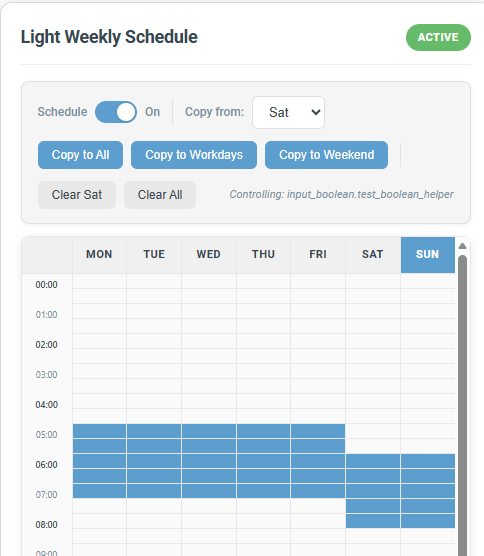
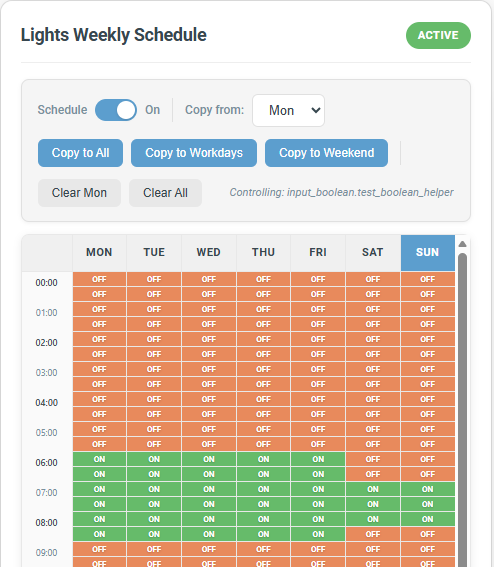
Update screenshots and bump version to 0.4.0
- Updated screenshots with latest UI
- Version bump to 0.4.0

diff --git a/weekly-scheduler-card.js b/weekly-scheduler-card.js
@@ -1,4 +1,4 @@
-/*! weekly-scheduler-card v0.3.5 */
+/*! weekly-scheduler-card v0.4.0 */
 !function(e){"use strict";function t(e,t,s,i){var n,o=arguments.length,r=o<3?t:null===i?i=Object.getOwnPropertyDescriptor(t,s):i;if("object"==typeof Reflect&&"function"==typeof Reflect.decorate)r=Reflect.decorate(e,t,s,i);else for(var a=e.length-1;a>=0;a--)(n=e[a])&&(r=(o<3?n(r):o>3?n(t,s,r):n(t,s))||r);return o>3&&r&&Object.defineProperty(t,s,r),r}"function"==typeof SuppressedError&&SuppressedError;const s=globalThis,i=s.ShadowRoot&&(void 0===s.ShadyCSS||s.ShadyCSS.nativeShadow)&&"adoptedStyleSheets"in Document.prototype&&"replace"in CSSStyleSheet.prototype,n=Symbol(),o=new WeakMap;let r=class{constructor(e,t,s){if(this._$cssResult$=!0,s!==n)throw Error("CSSResult is not constructable. Use `unsafeCSS` or `css` instead.");this.cssText=e,this.t=t}get styleSheet(){let e=this.o;const t=this.t;if(i&&void 0===e){const s=void 0!==t&&1===t.length;s&&(e=o.get(t)),void 0===e&&((this.o=e=new CSSStyleSheet).replaceSync(this.cssText),s&&o.set(t,e))}return e}toString(){return this.cssText}};const a=(e,...t)=>{const s=1===e.length?e[0]:t.reduce((t,s,i)=>t+(e=>{if(!0===e._$cssResult$)return e.cssText;if("number"==typeof e)return e;throw Error("Value passed to 'css' function must be a 'css' function result: "+e+". Use 'unsafeCSS' to pass non-literal values, but take care to ensure page security.")})(s)+e[i+1],e[0]);return new r(s,e,n)},l=i?e=>e:e=>e instanceof CSSStyleSheet?(e=>{let t="";for(const s of e.cssRules)t+=s.cssText;return(e=>new r("string"==typeof e?e:e+"",void 0,n))(t)})(e):e,{is:d,defineProperty:c,getOwnPropertyDescriptor:h,getOwnPropertyNames:u,getOwnPropertySymbols:p,getPrototypeOf:y}=Object,g=globalThis,f=g.trustedTypes,_=f?f.emptyScript:"",b=g.reactiveElementPolyfillSupport,v=(e,t)=>e,m={toAttribute(e,t){switch(t){case Boolean:e=e?_:null;break;case Object:case Array:e=null==e?e:JSON.stringify(e)}return e},fromAttribute(e,t){let s=e;switch(t){case Boolean:s=null!==e;break;case Number:s=null===e?null:Number(e);break;case Object:case Array:try{s=JSON.parse(e)}catch(e){s=null}}return s}},$=(e,t)=>!d(e,t),x={attribute:!0,type:String,converter:m,reflect:!1,useDefault:!1,hasChanged:$};Symbol.metadata??=Symbol("metadata"),g.litPropertyMetadata??=new WeakMap;let w=class extends HTMLElement{static addInitializer(e){this._$Ei(),(this.l??=[]).push(e)}static get observedAttributes(){return this.finalize(),this._$Eh&&[...this._$Eh.keys()]}static createProperty(e,t=x){if(t.state&&(t.attribute=!1),this._$Ei(),this.prototype.hasOwnProperty(e)&&((t=Object.create(t)).wrapped=!0),this.elementProperties.set(e,t),!t.noAccessor){const s=Symbol(),i=this.getPropertyDescriptor(e,s,t);void 0!==i&&c(this.prototype,e,i)}}static getPropertyDescriptor(e,t,s){const{get:i,set:n}=h(this.prototype,e)??{get(){return this[t]},set(e){this[t]=e}};return{get:i,set(t){const o=i?.call(this);n?.call(this,t),this.requestUpdate(e,o,s)},configurable:!0,enumerable:!0}}static getPropertyOptions(e){return this.elementProperties.get(e)??x}static _$Ei(){if(this.hasOwnProperty(v("elementProperties")))return;const e=y(this);e.finalize(),void 0!==e.l&&(this.l=[...e.l]),this.elementProperties=new Map(e.elementProperties)}static finalize(){if(this.hasOwnProperty(v("finalized")))return;if(this.finalized=!0,this._$Ei(),this.hasOwnProperty(v("properties"))){const e=this.properties,t=[...u(e),...p(e)];for(const s of t)this.createProperty(s,e[s])}const e=this[Symbol.metadata];if(null!==e){const t=litPropertyMetadata.get(e);if(void 0!==t)for(const[e,s]of t)this.elementProperties.set(e,s)}this._$Eh=new Map;for(const[e,t]of this.elementProperties){const s=this._$Eu(e,t);void 0!==s&&this._$Eh.set(s,e)}this.elementStyles=this.finalizeStyles(this.styles)}static finalizeStyles(e){const t=[];if(Array.isArray(e)){const s=new Set(e.flat(1/0).reverse());for(const e of s)t.unshift(l(e))}else void 0!==e&&t.push(l(e));return t}static _$Eu(e,t){const s=t.attribute;return!1===s?void 0:"string"==typeof s?s:"string"==typeof e?e.toLowerCase():void 0}constructor(){super(),this._$Ep=void 0,this.isUpdatePending=!1,this.hasUpdated=!1,this._$Em=null,this._$Ev()}_$Ev(){this._$ES=new Promise(e=>this.enableUpdating=e),this._$AL=new Map,this._$E_(),this.requestUpdate(),this.constructor.l?.forEach(e=>e(this))}addController(e){(this._$EO??=new Set).add(e),void 0!==this.renderRoot&&this.isConnected&&e.hostConnected?.()}removeController(e){this._$EO?.delete(e)}_$E_(){const e=new Map,t=this.constructor.elementProperties;for(const s of t.keys())this.hasOwnProperty(s)&&(e.set(s,this[s]),delete this[s]);e.size>0&&(this._$Ep=e)}createRenderRoot(){const e=this.shadowRoot??this.attachShadow(this.constructor.shadowRootOptions);return((e,t)=>{if(i)e.adoptedStyleSheets=t.map(e=>e instanceof CSSStyleSheet?e:e.styleSheet);else for(const i of t){const t=document.createElement("style"),n=s.litNonce;void 0!==n&&t.setAttribute("nonce",n),t.textContent=i.cssText,e.appendChild(t)}})(e,this.constructor.elementStyles),e}connectedCallback(){this.renderRoot??=this.createRenderRoot(),this.enableUpdating(!0),this._$EO?.forEach(e=>e.hostConnected?.())}enableUpdating(e){}disconnectedCallback(){this._$EO?.forEach(e=>e.hostDisconnected?.())}attributeChangedCallback(e,t,s){this._$AK(e,s)}_$ET(e,t){const s=this.constructor.elementProperties.get(e),i=this.constructor._$Eu(e,s);if(void 0!==i&&!0===s.reflect){const n=(void 0!==s.converter?.toAttribute?s.converter:m).toAttribute(t,s.type);this._$Em=e,null==n?this.removeAttribute(i):this.setAttribute(i,n),this._$Em=null}}_$AK(e,t){const s=this.constructor,i=s._$Eh.get(e);if(void 0!==i&&this._$Em!==i){const e=s.getPropertyOptions(i),n="function"==typeof e.converter?{fromAttribute:e.converter}:void 0!==e.converter?.fromAttribute?e.converter:m;this._$Em=i;const o=n.fromAttribute(t,e.type);this[i]=o??this._$Ej?.get(i)??o,this._$Em=null}}requestUpdate(e,t,s,i=!1,n){if(void 0!==e){const o=this.constructor;if(!1===i&&(n=this[e]),s??=o.getPropertyOptions(e),!((s.hasChanged??$)(n,t)||s.useDefault&&s.reflect&&n===this._$Ej?.get(e)&&!this.hasAttribute(o._$Eu(e,s))))return;this.C(e,t,s)}!1===this.isUpdatePending&&(this._$ES=this._$EP())}C(e,t,{useDefault:s,reflect:i,wrapped:n},o){s&&!(this._$Ej??=new Map).has(e)&&(this._$Ej.set(e,o??t??this[e]),!0!==n||void 0!==o)||(this._$AL.has(e)||(this.hasUpdated||s||(t=void 0),this._$AL.set(e,t)),!0===i&&this._$Em!==e&&(this._$Eq??=new Set).add(e))}async _$EP(){this.isUpdatePending=!0;try{await this._$ES}catch(e){Promise.reject(e)}const e=this.scheduleUpdate();return null!=e&&await e,!this.isUpdatePending}scheduleUpdate(){return this.performUpdate()}performUpdate(){if(!this.isUpdatePending)return;if(!this.hasUpdated){if(this.renderRoot??=this.createRenderRoot(),this._$Ep){for(const[e,t]of this._$Ep)this[e]=t;this._$Ep=void 0}const e=this.constructor.elementProperties;if(e.size>0)for(const[t,s]of e){const{wrapped:e}=s,i=this[t];!0!==e||this._$AL.has(t)||void 0===i||this.C(t,void 0,s,i)}}let e=!1;const t=this._$AL;try{e=this.shouldUpdate(t),e?(this.willUpdate(t),this._$EO?.forEach(e=>e.hostUpdate?.()),this.update(t)):this._$EM()}catch(t){throw e=!1,this._$EM(),t}e&&this._$AE(t)}willUpdate(e){}_$AE(e){this._$EO?.forEach(e=>e.hostUpdated?.()),this.hasUpdated||(this.hasUpdated=!0,this.firstUpdated(e)),this.updated(e)}_$EM(){this._$AL=new Map,this.isUpdatePending=!1}get updateComplete(){return this.getUpdateComplete()}getUpdateComplete(){return this._$ES}shouldUpdate(e){return!0}update(e){this._$Eq&&=this._$Eq.forEach(e=>this._$ET(e,this[e])),this._$EM()}updated(e){}firstUpdated(e){}};w.elementStyles=[],w.shadowRootOptions={mode:"open"},w[v("elementProperties")]=new Map,w[v("finalized")]=new Map,b?.({ReactiveElement:w}),(g.reactiveElementVersions??=[]).push("2.1.2");const S=globalThis,E=e=>e,C=S.trustedTypes,A=C?C.createPolicy("lit-html",{createHTML:e=>e}):void 0,k="$lit$",T=`lit$${Math.random().toFixed(9).slice(2)}$`,D="?"+T,M=`<${D}>`,O=document,P=()=>O.createComment(""),U=e=>null===e||"object"!=typeof e&&"function"!=typeof e,H=Array.isArray,R="[ \t\n\f\r]",z=/<(?:(!--|\/[^a-zA-Z])|(\/?[a-zA-Z][^>\s]*)|(\/?$))/g,V=/-->/g,N=/>/g,W=RegExp(`>|${R}(?:([^\\s"'>=/]+)(${R}*=${R}*(?:[^ \t\n\f\r"'\`<>=]|("|')|))|$)`,"g"),j=/'/g,I=/"/g,L=/^(?:script|style|textarea|title)$/i,B=(e=>(t,...s)=>({_$litType$:e,strings:t,values:s}))(1),q=Symbol.for("lit-noChange"),F=Symbol.for("lit-nothing"),J=new WeakMap,K=O.createTreeWalker(O,129);function Y(e,t){if(!H(e)||!e.hasOwnProperty("raw"))throw Error("invalid template strings array");return void 0!==A?A.createHTML(t):t}const X=(e,t)=>{const s=e.length-1,i=[];let n,o=2===t?"<svg>":3===t?"<math>":"",r=z;for(let t=0;t<s;t++){const s=e[t];let a,l,d=-1,c=0;for(;c<s.length&&(r.lastIndex=c,l=r.exec(s),null!==l);)c=r.lastIndex,r===z?"!--"===l[1]?r=V:void 0!==l[1]?r=N:void 0!==l[2]?(L.test(l[2])&&(n=RegExp("</"+l[2],"g")),r=W):void 0!==l[3]&&(r=W):r===W?">"===l[0]?(r=n??z,d=-1):void 0===l[1]?d=-2:(d=r.lastIndex-l[2].length,a=l[1],r=void 0===l[3]?W:'"'===l[3]?I:j):r===I||r===j?r=W:r===V||r===N?r=z:(r=W,n=void 0);const h=r===W&&e[t+1].startsWith("/>")?" ":"";o+=r===z?s+M:d>=0?(i.push(a),s.slice(0,d)+k+s.slice(d)+T+h):s+T+(-2===d?t:h)}return[Y(e,o+(e[s]||"<?>")+(2===t?"</svg>":3===t?"</math>":"")),i]};class Z{constructor({strings:e,_$litType$:t},s){let i;this.parts=[];let n=0,o=0;const r=e.length-1,a=this.parts,[l,d]=X(e,t);if(this.el=Z.createElement(l,s),K.currentNode=this.el.content,2===t||3===t){const e=this.el.content.firstChild;e.replaceWith(...e.childNodes)}for(;null!==(i=K.nextNode())&&a.length<r;){if(1===i.nodeType){if(i.hasAttributes())for(const e of i.getAttributeNames())if(e.endsWith(k)){const t=d[o++],s=i.getAttribute(e).split(T),r=/([.?@])?(.*)/.exec(t);a.push({type:1,index:n,name:r[2],strings:s,ctor:"."===r[1]?se:"?"===r[1]?ie:"@"===r[1]?ne:te}),i.removeAttribute(e)}else e.startsWith(T)&&(a.push({type:6,index:n}),i.removeAttribute(e));if(L.test(i.tagName)){const e=i.textContent.split(T),t=e.length-1;if(t>0){i.textContent=C?C.emptyScript:"";for(let s=0;s<t;s++)i.append(e[s],P()),K.nextNode(),a.push({type:2,index:++n});i.append(e[t],P())}}}else if(8===i.nodeType)if(i.data===D)a.push({type:2,index:n});else{let e=-1;for(;-1!==(e=i.data.indexOf(T,e+1));)a.push({type:7,index:n}),e+=T.length-1}n++}}static createElement(e,t){const s=O.createElement("template");return s.innerHTML=e,s}}function G(e,t,s=e,i){if(t===q)return t;let n=void 0!==i?s._$Co?.[i]:s._$Cl;const o=U(t)?void 0:t._$litDirective$;return n?.constructor!==o&&(n?._$AO?.(!1),void 0===o?n=void 0:(n=new o(e),n._$AT(e,s,i)),void 0!==i?(s._$Co??=[])[i]=n:s._$Cl=n),void 0!==n&&(t=G(e,n._$AS(e,t.values),n,i)),t}class Q{constructor(e,t){this._$AV=[],this._$AN=void 0,this._$AD=e,this._$AM=t}get parentNode(){return this._$AM.parentNode}get _$AU(){return this._$AM._$AU}u(e){const{el:{content:t},parts:s}=this._$AD,i=(e?.creationScope??O).importNode(t,!0);K.currentNode=i;let n=K.nextNode(),o=0,r=0,a=s[0];for(;void 0!==a;){if(o===a.index){let t;2===a.type?t=new ee(n,n.nextSibling,this,e):1===a.type?t=new a.ctor(n,a.name,a.strings,this,e):6===a.type&&(t=new oe(n,this,e)),this._$AV.push(t),a=s[++r]}o!==a?.index&&(n=K.nextNode(),o++)}return K.currentNode=O,i}p(e){let t=0;for(const s of this._$AV)void 0!==s&&(void 0!==s.strings?(s._$AI(e,s,t),t+=s.strings.length-2):s._$AI(e[t])),t++}}class ee{get _$AU(){return this._$AM?._$AU??this._$Cv}constructor(e,t,s,i){this.type=2,this._$AH=F,this._$AN=void 0,this._$AA=e,this._$AB=t,this._$AM=s,this.options=i,this._$Cv=i?.isConnected??!0}get parentNode(){let e=this._$AA.parentNode;const t=this._$AM;return void 0!==t&&11===e?.nodeType&&(e=t.parentNode),e}get startNode(){return this._$AA}get endNode(){return this._$AB}_$AI(e,t=this){e=G(this,e,t),U(e)?e===F||null==e||""===e?(this._$AH!==F&&this._$AR(),this._$AH=F):e!==this._$AH&&e!==q&&this._(e):void 0!==e._$litType$?this.$(e):void 0!==e.nodeType?this.T(e):(e=>H(e)||"function"==typeof e?.[Symbol.iterator])(e)?this.k(e):this._(e)}O(e){return this._$AA.parentNode.insertBefore(e,this._$AB)}T(e){this._$AH!==e&&(this._$AR(),this._$AH=this.O(e))}_(e){this._$AH!==F&&U(this._$AH)?this._$AA.nextSibling.data=e:this.T(O.createTextNode(e)),this._$AH=e}$(e){const{values:t,_$litType$:s}=e,i="number"==typeof s?this._$AC(e):(void 0===s.el&&(s.el=Z.createElement(Y(s.h,s.h[0]),this.options)),s);if(this._$AH?._$AD===i)this._$AH.p(t);else{const e=new Q(i,this),s=e.u(this.options);e.p(t),this.T(s),this._$AH=e}}_$AC(e){let t=J.get(e.strings);return void 0===t&&J.set(e.strings,t=new Z(e)),t}k(e){H(this._$AH)||(this._$AH=[],this._$AR());const t=this._$AH;let s,i=0;for(const n of e)i===t.length?t.push(s=new ee(this.O(P()),this.O(P()),this,this.options)):s=t[i],s._$AI(n),i++;i<t.length&&(this._$AR(s&&s._$AB.nextSibling,i),t.length=i)}_$AR(e=this._$AA.nextSibling,t){for(this._$AP?.(!1,!0,t);e!==this._$AB;){const t=E(e).nextSibling;E(e).remove(),e=t}}setConnected(e){void 0===this._$AM&&(this._$Cv=e,this._$AP?.(e))}}class te{get tagName(){return this.element.tagName}get _$AU(){return this._$AM._$AU}constructor(e,t,s,i,n){this.type=1,this._$AH=F,this._$AN=void 0,this.element=e,this.name=t,this._$AM=i,this.options=n,s.length>2||""!==s[0]||""!==s[1]?(this._$AH=Array(s.length-1).fill(new String),this.strings=s):this._$AH=F}_$AI(e,t=this,s,i){const n=this.strings;let o=!1;if(void 0===n)e=G(this,e,t,0),o=!U(e)||e!==this._$AH&&e!==q,o&&(this._$AH=e);else{const i=e;let r,a;for(e=n[0],r=0;r<n.length-1;r++)a=G(this,i[s+r],t,r),a===q&&(a=this._$AH[r]),o||=!U(a)||a!==this._$AH[r],a===F?e=F:e!==F&&(e+=(a??"")+n[r+1]),this._$AH[r]=a}o&&!i&&this.j(e)}j(e){e===F?this.element.removeAttribute(this.name):this.element.setAttribute(this.name,e??"")}}class se extends te{constructor(){super(...arguments),this.type=3}j(e){this.element[this.name]=e===F?void 0:e}}class ie extends te{constructor(){super(...arguments),this.type=4}j(e){this.element.toggleAttribute(this.name,!!e&&e!==F)}}class ne extends te{constructor(e,t,s,i,n){super(e,t,s,i,n),this.type=5}_$AI(e,t=this){if((e=G(this,e,t,0)??F)===q)return;const s=this._$AH,i=e===F&&s!==F||e.capture!==s.capture||e.once!==s.once||e.passive!==s.passive,n=e!==F&&(s===F||i);i&&this.element.removeEventListener(this.name,this,s),n&&this.element.addEventListener(this.name,this,e),this._$AH=e}handleEvent(e){"function"==typeof this._$AH?this._$AH.call(this.options?.host??this.element,e):this._$AH.handleEvent(e)}}class oe{constructor(e,t,s){this.element=e,this.type=6,this._$AN=void 0,this._$AM=t,this.options=s}get _$AU(){return this._$AM._$AU}_$AI(e){G(this,e)}}const re=S.litHtmlPolyfillSupport;re?.(Z,ee),(S.litHtmlVersions??=[]).push("3.3.2");const ae=globalThis;class le extends w{constructor(){super(...arguments),this.renderOptions={host:this},this._$Do=void 0}createRenderRoot(){const e=super.createRenderRoot();return this.renderOptions.renderBefore??=e.firstChild,e}update(e){const t=this.render();this.hasUpdated||(this.renderOptions.isConnected=this.isConnected),super.update(e),this._$Do=((e,t,s)=>{const i=s?.renderBefore??t;let n=i._$litPart$;if(void 0===n){const e=s?.renderBefore??null;i._$litPart$=n=new ee(t.insertBefore(P(),e),e,void 0,s??{})}return n._$AI(e),n})(t,this.renderRoot,this.renderOptions)}connectedCallback(){super.connectedCallback(),this._$Do?.setConnected(!0)}disconnectedCallback(){super.disconnectedCallback(),this._$Do?.setConnected(!1)}render(){return q}}le._$litElement$=!0,le.finalized=!0,ae.litElementHydrateSupport?.({LitElement:le});const de=ae.litElementPolyfillSupport;de?.({LitElement:le}),(ae.litElementVersions??=[]).push("4.2.2");const ce={attribute:!0,type:String,converter:m,reflect:!1,hasChanged:$},he=(e=ce,t,s)=>{const{kind:i,metadata:n}=s;let o=globalThis.litPropertyMetadata.get(n);if(void 0===o&&globalThis.litPropertyMetadata.set(n,o=new Map),"setter"===i&&((e=Object.create(e)).wrapped=!0),o.set(s.name,e),"accessor"===i){const{name:i}=s;return{set(s){const n=t.get.call(this);t.set.call(this,s),this.requestUpdate(i,n,e,!0,s)},init(t){return void 0!==t&&this.C(i,void 0,e,t),t}}}if("setter"===i){const{name:i}=s;return function(s){const n=this[i];t.call(this,s),this.requestUpdate(i,n,e,!0,s)}}throw Error("Unsupported decorator location: "+i)};function ue(e){return(t,s)=>"object"==typeof s?he(e,t,s):((e,t,s)=>{const i=t.hasOwnProperty(s);return t.constructor.createProperty(s,e),i?Object.getOwnPropertyDescriptor(t,s):void 0})(e,t,s)}function pe(e){return ue({...e,state:!0,attribute:!1})}const ye=["monday","tuesday","wednesday","thursday","friday","saturday","sunday"],ge={monday:"Mon",tuesday:"Tue",wednesday:"Wed",thursday:"Thu",friday:"Fri",saturday:"Sat",sunday:"Sun"};function fe(e){const t=e%2*30;return`${Math.floor(e/2).toString().padStart(2,"0")}:${t.toString().padStart(2,"0")}`}function _e(e){const[t,s]=e.split(":").map(Number);return 2*t+Math.floor(s/30)}function be(){const e=(new Date).getDay();return ye[0===e?6:e-1]}function ve(){const e=new Date;return 2*e.getHours()+Math.floor(e.getMinutes()/30)}function me(e){const t={monday:[],tuesday:[],wednesday:[],thursday:[],friday:[],saturday:[],sunday:[]};for(const s of ye)t[s]=e[s].map(e=>({...e}));return t}function $e(e,t,s,i,n){const o=me(e),r=fe(s),a=i>=48?"00:00":fe(i);o[t]=o[t].filter(e=>{const t=_e(e.start);return("00:00"===e.end?48:_e(e.end))<=s||t>=i});const l=[];for(const n of e[t]){const e=_e(n.start),t="00:00"===n.end?48:_e(n.end);e<s&&t>s&&l.push({start:n.start,end:fe(s),value:n.value}),e<i&&t>i&&l.push({start:fe(i),end:n.end,value:n.value})}return o[t].push({start:r,end:a,value:n}),o[t].push(...l),o[t]=function(e){if(0===e.length)return[];const t=[{...e[0]}];for(let s=1;s<e.length;s++){const i=t[t.length-1],n=e[s];("00:00"===i.end?48:_e(i.end))===_e(n.start)&&i.value===n.value?t[t.length-1]={start:i.start,end:n.end,value:i.value}:t.push({...n})}return t}(o[t].sort((e,t)=>_e(e.start)-_e(t.start))),o}function xe(e,t,s,i){const n=me(e),o=[];for(const e of n[t]){const t=_e(e.start),n="00:00"===e.end?48:_e(e.end);n<=s||t>=i?o.push(e):(t<s&&o.push({start:e.start,end:fe(s),value:e.value}),n>i&&o.push({start:fe(i),end:e.end,value:e.value}))}return n[t]=o.sort((e,t)=>_e(e.start)-_e(t.start)),n}function we(e,t,s){for(const i of e[t]){const e=_e(i.start),t="00:00"===i.end?48:_e(i.end);if(s>=e&&s<t)return i.value}return null}function Se(e,t,s){const i=me(e),n=i[t].map(e=>({...e}));for(const e of s)e!==t&&(i[e]=n.map(e=>({...e})));return i}function Ee(e,t){return{isSelecting:!0,startDay:e,startSlot:t,endDay:e,endSlot:t}}function Ce(e,t,s){return e.isSelecting?{...e,endDay:t,endSlot:s}:e}function Ae(e,t){const s=t.getBoundingClientRect();let i,n;if("touches"in e){if(0===e.touches.length)return null;i=e.touches[0].clientX,n=e.touches[0].clientY}else i=e.clientX,n=e.clientY;const o=i-s.left,r=n-s.top,a=o-50;if(a<0)return null;const l=(s.width-50)/7,d=Math.floor(a/l);if(d<0||d>=7)return null;const c=r-37+t.scrollTop;if(c<0)return null;const h=(t.scrollHeight-37)/48,u=Math.floor(c/h);return u<0||u>=48?null:{day:ye[d],slot:u}}class ke extends le{constructor(){super(...arguments),this.schedule={monday:[],tuesday:[],wednesday:[],thursday:[],friday:[],saturday:[],sunday:[]},this.helperType="input_number",this.defaultValue=50,this._selection={isSelecting:!1,startDay:null,startSlot:null,endDay:null,endSlot:null},this._currentSlot=ve(),this._currentDay=be(),this._slotProgress=0,this._handleMouseMove=e=>{const t=this.shadowRoot?.querySelector(".grid-container");if(!t)return;const s=Ae(e,t);s&&(this._selection=Ce(this._selection,s.day,s.slot))},this._handleMouseUp=()=>{document.removeEventListener("mousemove",this._handleMouseMove),document.removeEventListener("mouseup",this._handleMouseUp),document.body.style.userSelect="",document.body.style.webkitUserSelect="",this._finishSelection()}}connectedCallback(){super.connectedCallback(),this._startTimeUpdates()}disconnectedCallback(){super.disconnectedCallback(),this._stopTimeUpdates()}_startTimeUpdates(){this._updateCurrentTime(),this._timeUpdateInterval=window.setInterval(()=>{this._updateCurrentTime()},3e4)}_stopTimeUpdates(){this._timeUpdateInterval&&clearInterval(this._timeUpdateInterval)}_updateCurrentTime(){this._currentSlot=ve(),this._currentDay=be(),this._slotProgress=(new Date).getMinutes()%30/30}_handleMouseDown(e){const t=this.shadowRoot?.querySelector(".grid-container");if(!t)return;const s=Ae(e,t);s&&(e.preventDefault(),document.body.style.userSelect="none",document.body.style.webkitUserSelect="none",this._selection=Ee(s.day,s.slot),document.addEventListener("mousemove",this._handleMouseMove),document.addEventListener("mouseup",this._handleMouseUp))}_handleTouchStart(e){const t=this.shadowRoot?.querySelector(".grid-container");if(!t)return;const s=Ae(e,t);s&&(e.preventDefault(),this._selection=Ee(s.day,s.slot))}_handleTouchMove(e){const t=this.shadowRoot?.querySelector(".grid-container");if(!t)return;const s=Ae(e,t);s&&(e.preventDefault(),this._selection=Ce(this._selection,s.day,s.slot))}_handleTouchEnd(){this._finishSelection()}_finishSelection(){const e=function(e){if(!e.startDay||null===e.startSlot||!e.endDay||null===e.endSlot)return null;const t=ye.indexOf(e.startDay),s=ye.indexOf(e.endDay),i=Math.min(t,s),n=Math.max(t,s);return{days:ye.slice(i,n+1),startSlot:Math.min(e.startSlot,e.endSlot),endSlot:Math.max(e.startSlot,e.endSlot)+1}}(this._selection);if(this._selection={isSelecting:!1,startDay:null,startSlot:null,endDay:null,endSlot:null},!e)return;const t=e.days[0],s=e.startSlot,i=we(this.schedule,t,s);let n;n="input_boolean"===this.helperType?"toggle":"add",this.dispatchEvent(new CustomEvent("selection-complete",{detail:{days:e.days,startSlot:e.startSlot,endSlot:e.endSlot,action:n,currentValue:i},bubbles:!0,composed:!0}))}_getIntensityClass(e){return null===e?"":"boolean"==typeof e?e?"boolean-on":"boolean-off":e<=33?"intensity-low":e<=66?"intensity-medium":"intensity-high"}_formatValue(e){if(Number.isInteger(e))return String(e);const t=Math.round(10*e)/10;return String(t)}_renderTimeLabel(e){const t=fe(e);return B`
       <div class="time-label ${e%4==0?"even-hour":""}">
         ${e%2==0?t:B`&nbsp;`}
@@ -512,7 +512,7 @@
         font-size: 12px;
       }
     }
-  `,t([ue({type:Boolean})],Te.prototype,"enabled",void 0),t([ue({type:String})],Te.prototype,"helperType",void 0),t([ue({type:Number})],Te.prototype,"currentValue",void 0),t([ue({type:String})],Te.prototype,"helperEntity",void 0),t([pe()],Te.prototype,"_selectedDay",void 0),t([pe()],Te.prototype,"_inputValue",void 0),customElements.get("schedule-toolbar")||customElements.define("schedule-toolbar",Te);const De="0.3.5";window.customCards=window.customCards||[];const Me=window.customCards.find(e=>"weekly-scheduler-card"===e.type);function Oe(e){return`switch.weekly_schedule_${e.split(".").pop()||""}`}Me?Me.version=De:window.customCards.push({type:"weekly-scheduler-card",name:"Weekly Scheduler Card",description:"A card for managing weekly schedules for input helpers",preview:!0,version:De}),console.info(`%c WEEKLY-SCHEDULER-CARD %c v${De} `,"color: white; background: #3498db; font-weight: bold;","color: #3498db; background: white; font-weight: bold;");class Pe extends le{constructor(){super(...arguments),this._schedule={monday:[],tuesday:[],wednesday:[],thursday:[],friday:[],saturday:[],sunday:[]},this._enabled=!0,this._helperType="input_number",this._helperEntity="",this._currentValue=50,this._defaultValue=50,this._scheduleEntity="",this._isCreating=!1}setConfig(e){if(!e.entity&&!e.helper_entity)throw new Error("Please define a helper_entity or entity");this.config=e}getCardSize(){return 8}updated(e){super.updated(e),e.has("hass")&&this.hass&&this.config&&this._updateFromEntity()}_getScheduleEntityId(){return this.config?.entity?this.config.entity:this.config?.helper_entity?Oe(this.config.helper_entity):""}_scheduleExists(){const e=this._getScheduleEntityId();return""!==e&&void 0!==this.hass?.states[e]}_updateFromEntity(){if(!this.hass||!this.config)return;const e=this._getScheduleEntityId();this._scheduleEntity=e;const t=this.hass.states[e];if(!t)return void(this.config.helper_entity&&(this._helperEntity=this.config.helper_entity,this._helperEntity.startsWith("input_number.")?this._helperType="input_number":this._helperEntity.startsWith("input_boolean.")&&(this._helperType="input_boolean")));const s=t.attributes;if(s.schedule&&(this._schedule=s.schedule),s.helper_type&&(this._helperType=s.helper_type),s.helper_entity&&(this._helperEntity=s.helper_entity),this._enabled="on"===t.state,this._helperEntity&&this.hass.states[this._helperEntity]){const e=this.hass.states[this._helperEntity];"input_number"===this._helperType&&(this._currentValue=parseFloat(e.state)||0)}}async _createSchedule(){if(this.hass&&this.config?.helper_entity){this._isCreating=!0;try{await this.hass.callService("weekly_scheduler","create_schedule",{helper_entity:this.config.helper_entity}),await new Promise(e=>setTimeout(e,1e3)),this._updateFromEntity()}catch(e){console.error("Failed to create schedule:",e)}finally{this._isCreating=!1}}}async _updateSchedule(e){if(this.hass&&this._scheduleEntity){this._schedule=e;try{await this.hass.callService("weekly_scheduler","set_schedule",{entity_id:this._scheduleEntity,schedule:e})}catch(e){console.error("Failed to update schedule:",e)}}}async _handleSelectionComplete(e){const{days:t,startSlot:s,endSlot:i,action:n,currentValue:o}=e.detail;let r=me(this._schedule);for(const e of t)if("toggle"===n){r=$e(r,e,s,i,!0!==o)}else r="add"===n?$e(r,e,s,i,this._defaultValue):xe(r,e,s,i);await this._updateSchedule(r)}async _handleCopyToAll(e){const{sourceDay:t}=e.detail,s=Se(this._schedule,t,ye);await this._updateSchedule(s)}async _handleCopyToWorkdays(e){const{sourceDay:t}=e.detail,s=Se(this._schedule,t,["monday","tuesday","wednesday","thursday","friday"]);await this._updateSchedule(s)}async _handleCopyToWeekend(e){const{sourceDay:t}=e.detail,s=Se(this._schedule,t,["saturday","sunday"]);await this._updateSchedule(s)}async _handleClearDay(e){const{day:t}=e.detail,s=me(this._schedule);s[t]=[],await this._updateSchedule(s)}async _handleClearAll(){await this._updateSchedule({monday:[],tuesday:[],wednesday:[],thursday:[],friday:[],saturday:[],sunday:[]})}async _handleToggleEnabled(e){if(!this.hass||!this._scheduleEntity)return;const{enabled:t}=e.detail;try{await this.hass.callService("switch",t?"turn_on":"turn_off",{entity_id:this._scheduleEntity})}catch(e){console.error("Failed to toggle schedule:",e)}}_handleValueChange(e){this._defaultValue=e.detail.value}_renderCreateSchedule(){const e=this.config?.helper_entity||"",t=this.hass?.states[e],s=t?.attributes?.friendly_name||e;return B`
+  `,t([ue({type:Boolean})],Te.prototype,"enabled",void 0),t([ue({type:String})],Te.prototype,"helperType",void 0),t([ue({type:Number})],Te.prototype,"currentValue",void 0),t([ue({type:String})],Te.prototype,"helperEntity",void 0),t([pe()],Te.prototype,"_selectedDay",void 0),t([pe()],Te.prototype,"_inputValue",void 0),customElements.get("schedule-toolbar")||customElements.define("schedule-toolbar",Te);const De="0.4.0";window.customCards=window.customCards||[];const Me=window.customCards.find(e=>"weekly-scheduler-card"===e.type);function Oe(e){return`switch.weekly_schedule_${e.split(".").pop()||""}`}Me?Me.version=De:window.customCards.push({type:"weekly-scheduler-card",name:"Weekly Scheduler Card",description:"A card for managing weekly schedules for input helpers",preview:!0,version:De}),console.info(`%c WEEKLY-SCHEDULER-CARD %c v${De} `,"color: white; background: #3498db; font-weight: bold;","color: #3498db; background: white; font-weight: bold;");class Pe extends le{constructor(){super(...arguments),this._schedule={monday:[],tuesday:[],wednesday:[],thursday:[],friday:[],saturday:[],sunday:[]},this._enabled=!0,this._helperType="input_number",this._helperEntity="",this._currentValue=50,this._defaultValue=50,this._scheduleEntity="",this._isCreating=!1}setConfig(e){if(!e.entity&&!e.helper_entity)throw new Error("Please define a helper_entity or entity");this.config=e}getCardSize(){return 8}updated(e){super.updated(e),e.has("hass")&&this.hass&&this.config&&this._updateFromEntity()}_getScheduleEntityId(){return this.config?.entity?this.config.entity:this.config?.helper_entity?Oe(this.config.helper_entity):""}_scheduleExists(){const e=this._getScheduleEntityId();return""!==e&&void 0!==this.hass?.states[e]}_updateFromEntity(){if(!this.hass||!this.config)return;const e=this._getScheduleEntityId();this._scheduleEntity=e;const t=this.hass.states[e];if(!t)return void(this.config.helper_entity&&(this._helperEntity=this.config.helper_entity,this._helperEntity.startsWith("input_number.")?this._helperType="input_number":this._helperEntity.startsWith("input_boolean.")&&(this._helperType="input_boolean")));const s=t.attributes;if(s.schedule&&(this._schedule=s.schedule),s.helper_type&&(this._helperType=s.helper_type),s.helper_entity&&(this._helperEntity=s.helper_entity),this._enabled="on"===t.state,this._helperEntity&&this.hass.states[this._helperEntity]){const e=this.hass.states[this._helperEntity];"input_number"===this._helperType&&(this._currentValue=parseFloat(e.state)||0)}}async _createSchedule(){if(this.hass&&this.config?.helper_entity){this._isCreating=!0;try{await this.hass.callService("weekly_scheduler","create_schedule",{helper_entity:this.config.helper_entity}),await new Promise(e=>setTimeout(e,1e3)),this._updateFromEntity()}catch(e){console.error("Failed to create schedule:",e)}finally{this._isCreating=!1}}}async _updateSchedule(e){if(this.hass&&this._scheduleEntity){this._schedule=e;try{await this.hass.callService("weekly_scheduler","set_schedule",{entity_id:this._scheduleEntity,schedule:e})}catch(e){console.error("Failed to update schedule:",e)}}}async _handleSelectionComplete(e){const{days:t,startSlot:s,endSlot:i,action:n,currentValue:o}=e.detail;let r=me(this._schedule);for(const e of t)if("toggle"===n){r=$e(r,e,s,i,!0!==o)}else r="add"===n?$e(r,e,s,i,this._defaultValue):xe(r,e,s,i);await this._updateSchedule(r)}async _handleCopyToAll(e){const{sourceDay:t}=e.detail,s=Se(this._schedule,t,ye);await this._updateSchedule(s)}async _handleCopyToWorkdays(e){const{sourceDay:t}=e.detail,s=Se(this._schedule,t,["monday","tuesday","wednesday","thursday","friday"]);await this._updateSchedule(s)}async _handleCopyToWeekend(e){const{sourceDay:t}=e.detail,s=Se(this._schedule,t,["saturday","sunday"]);await this._updateSchedule(s)}async _handleClearDay(e){const{day:t}=e.detail,s=me(this._schedule);s[t]=[],await this._updateSchedule(s)}async _handleClearAll(){await this._updateSchedule({monday:[],tuesday:[],wednesday:[],thursday:[],friday:[],saturday:[],sunday:[]})}async _handleToggleEnabled(e){if(!this.hass||!this._scheduleEntity)return;const{enabled:t}=e.detail;try{await this.hass.callService("switch",t?"turn_on":"turn_off",{entity_id:this._scheduleEntity})}catch(e){console.error("Failed to toggle schedule:",e)}}_handleValueChange(e){this._defaultValue=e.detail.value}_renderCreateSchedule(){const e=this.config?.helper_entity||"",t=this.hass?.states[e],s=t?.attributes?.friendly_name||e;return B`
       <ha-card>
         <div class="card">
           <div class="header">

diff --git a/src/weekly-scheduler-card.ts b/src/weekly-scheduler-card.ts
@@ -3,7 +3,7 @@
  * @version 0.3.4
  */
 
-export const CARD_VERSION = '0.3.5';
+export const CARD_VERSION = '0.4.0';
 
 import { LitElement, html, css, PropertyValues } from 'lit';
 import { property, state } from 'lit/decorators.js';
